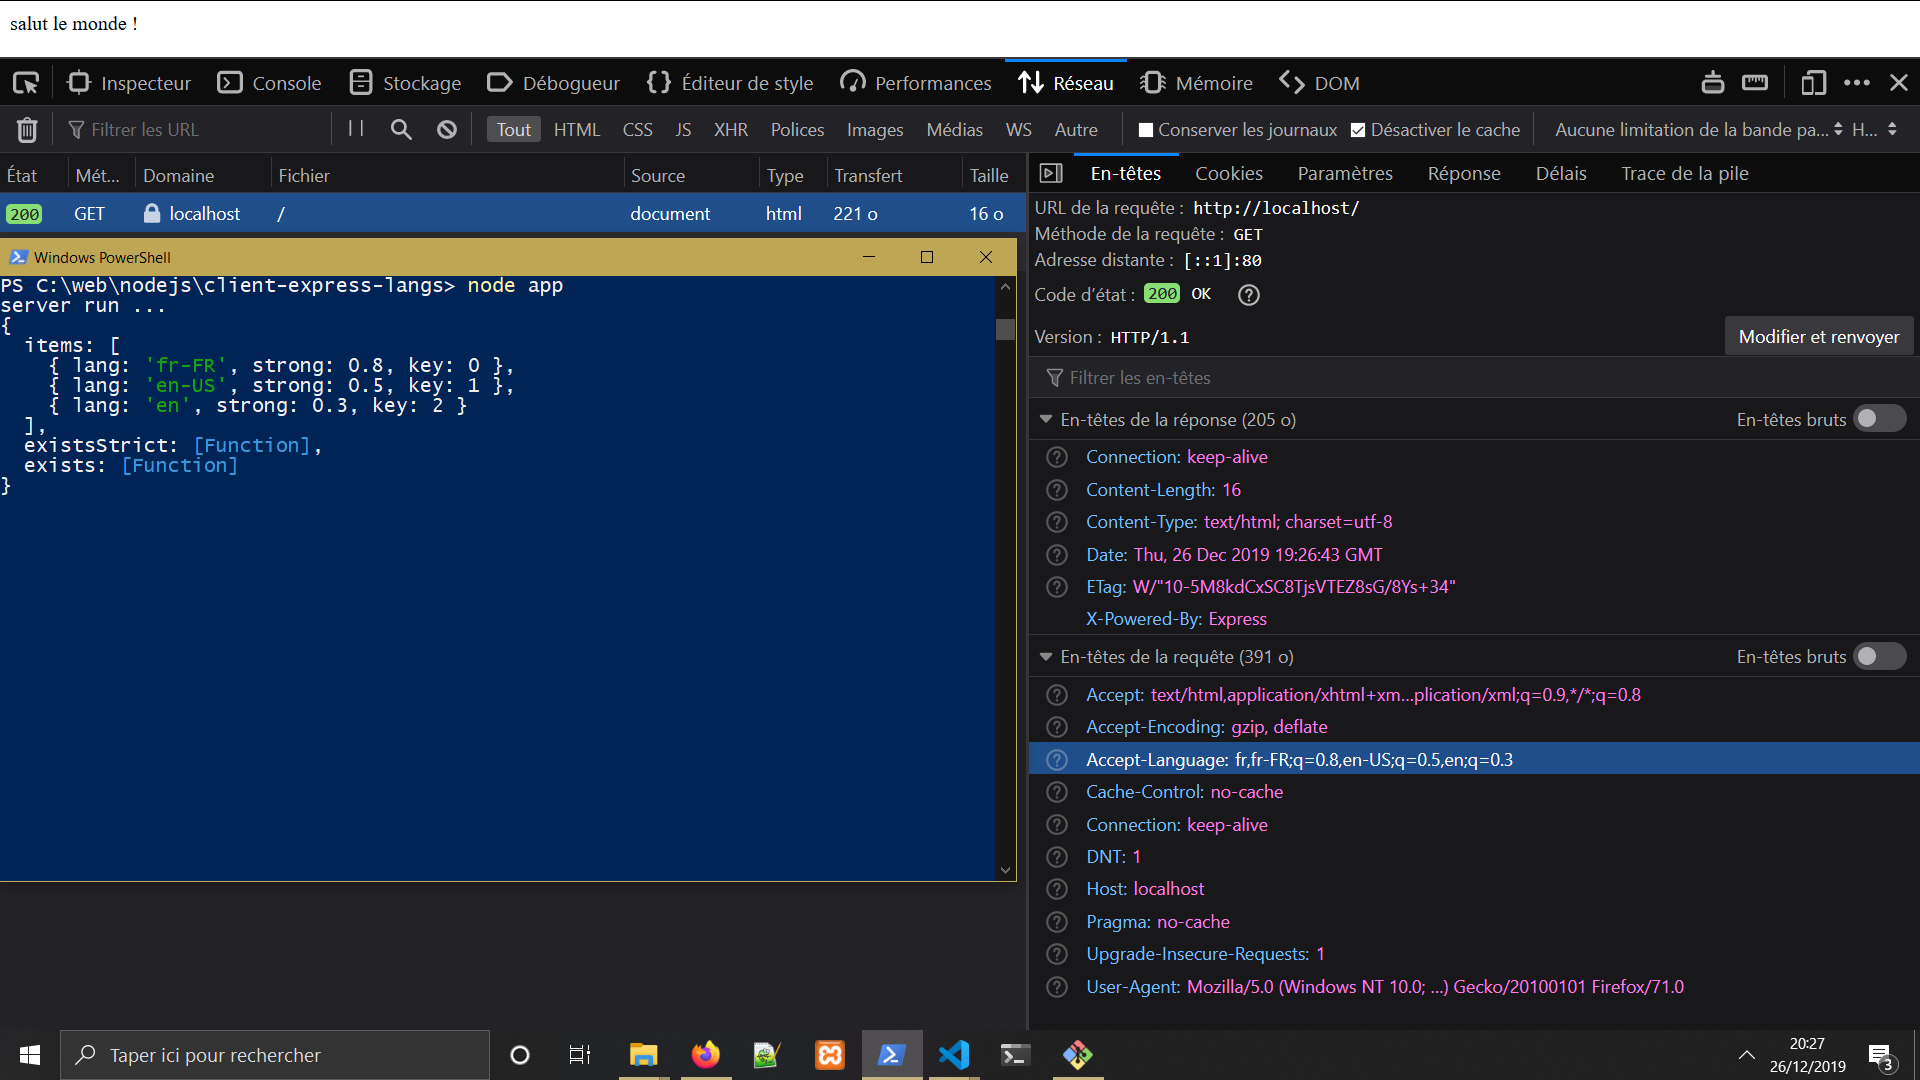
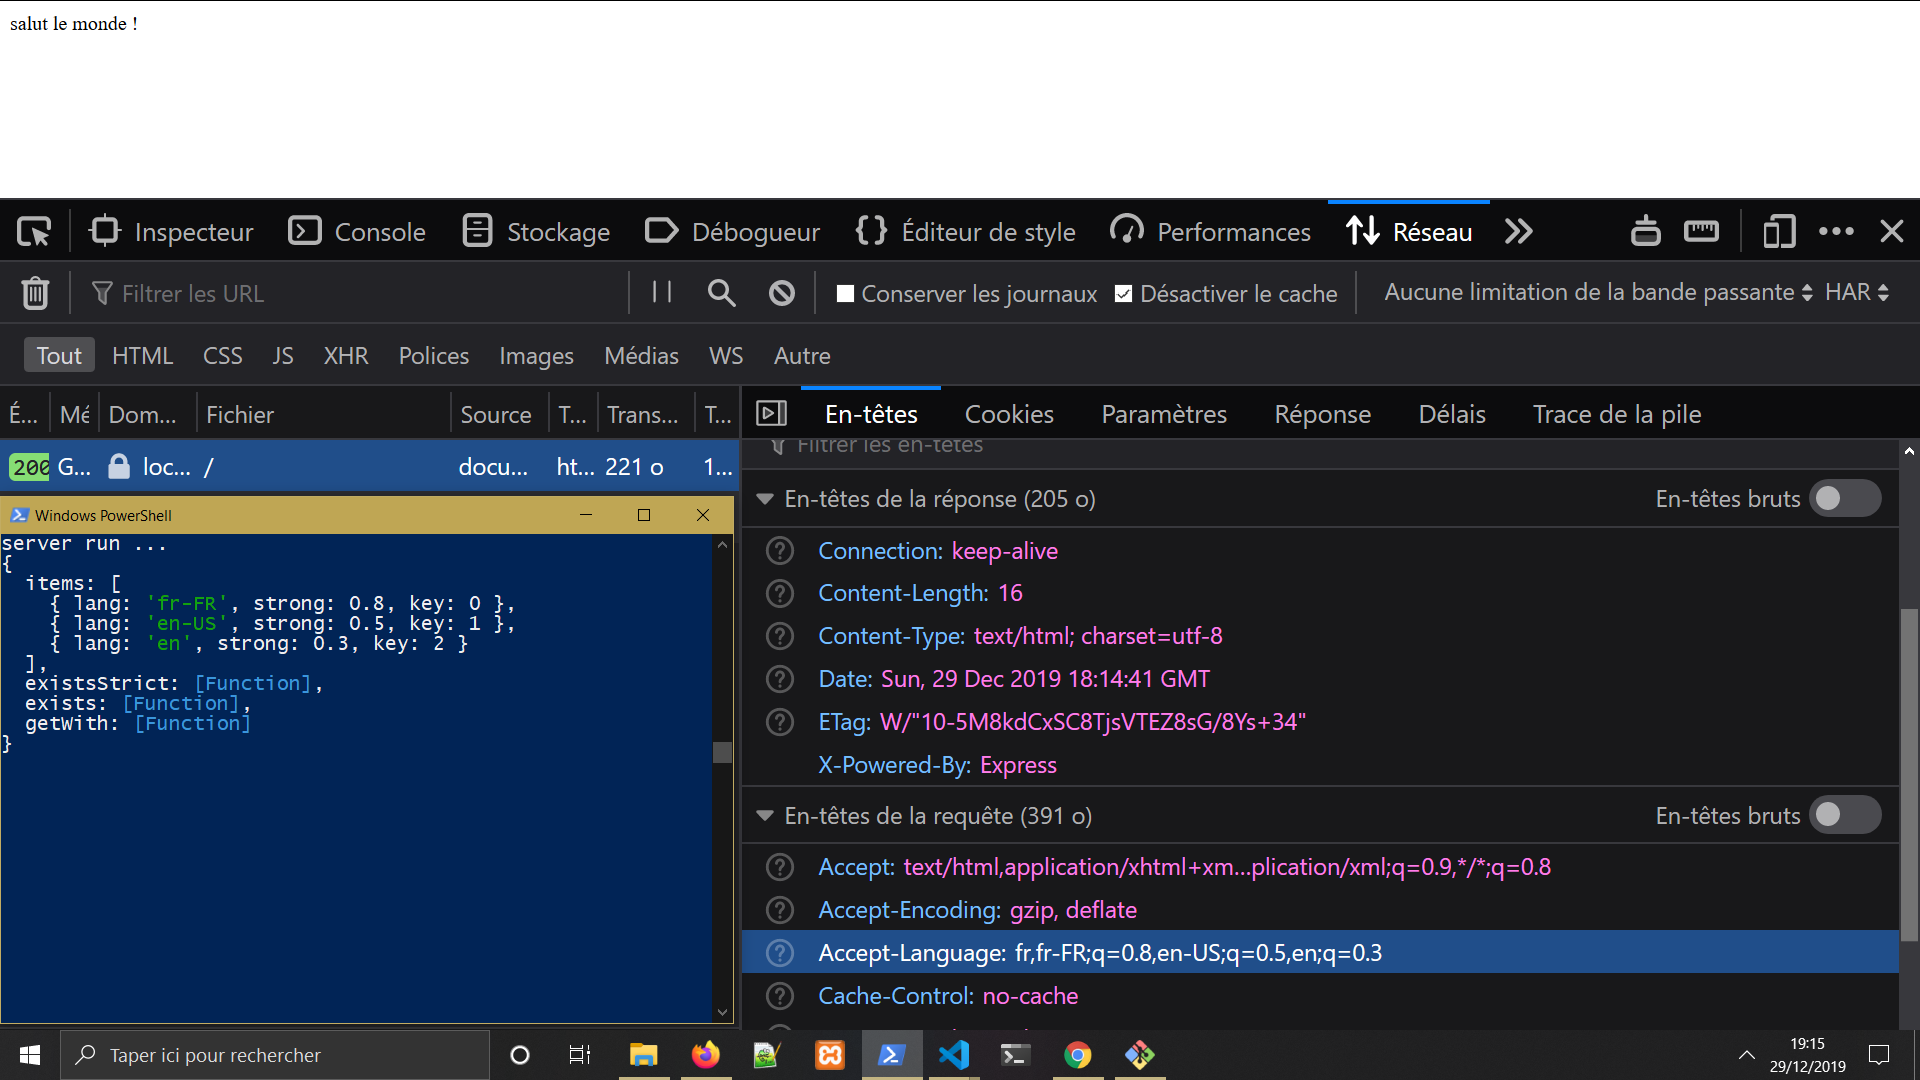
add  method feature , implement TEST-UNIT , upgrade README.md , upgrade minor version package.json

diff --git a/test/get-with-pattern.test.js b/test/get-with-pattern.test.js
@@ -1,0 +1,48 @@
+const
+    {expect,assert} = require('chai')
+    ,getWithTest = require('./../lib/get-with-pattern')
+;
+
+describe('test module `get-with-pattern`' , () => {
+
+    it('should be an function' , () => {
+
+        assert.isFunction( getWithTest ) ;
+
+    } ) ;
+
+    it('should \\throw TypeError' , () => {
+
+        const fxThrow = () => getWithTest() ;
+
+        expect( fxThrow ).to.have.throw( TypeError ) ;
+
+    } ) ;
+
+    it('should return array' , () => {
+
+        assert.isArray( getWithTest.call( {
+            items: [{ lang: 'test' } ,{ lang: 'fr' } , { lang: 'en' } , ]
+        } , /en|fr/ ) ) ;
+
+    } ) ;
+
+    it('should return an array of size 2' , () => {
+
+        expect( getWithTest.call( {
+            items: [{ lang: 'test' } ,{ lang: 'fr' } , { lang: 'en-US' } , ]
+        } , /en|fr/ ) ).to.have.lengthOf( 2 ) ;
+
+    } ) ;
+
+    it('should return an array of object' , () => {
+
+        const back = getWithTest.call( {
+            items: [{ lang: 'test' } ,{ lang: 'fr' } , { lang: 'en' } , ]
+        } , "en|fr" );
+
+        assert.isObject( back[0] ) ;
+
+    } ) ;
+
+} ) ;

diff --git a/test/check-exists-strict.test.js b/test/check-exists-strict.test.js
@@ -1,0 +1,46 @@
+const
+    {expect,assert} = require('chai')
+    ,checkExistsStrictTest = require('./../lib/check-exists-strict')
+;
+
+describe('test module `check-exists-strict`' , () => {
+
+    it('should be an function' , () => {
+
+        assert.isFunction( checkExistsStrictTest ) ;
+
+    } ) ;
+
+    it('should \\thow ReferenceError' , () => {
+
+        const fxThrow = () => checkExistsStrictTest() ;
+
+        expect( fxThrow ).to.throw() ;
+
+    } ) ;
+
+    it('should be return boolean' , () => {
+
+        assert.isBoolean( checkExistsStrictTest.call( {
+            items: [{lang:'test'},{lang:'test-2'},{lang:'test-3'}]
+        } )) ;
+
+    } ) ;
+
+    it('should be return false' , () => {
+
+        assert.isFalse( checkExistsStrictTest.call( {
+            items: [{lang:'test'},{lang:'test-2'},{lang:'test-3'}]
+        } )) ;
+
+    } ) ;
+
+    it('should be return true' , () => {
+
+        assert.isTrue( checkExistsStrictTest.call( {
+            items: [{lang:'en'},{lang:'test-2'},{lang:'test-3'}]
+        } )) ;
+
+    } ) ;
+
+} ) ;

diff --git a/test/check-exists.test.js b/test/check-exists.test.js
@@ -1,0 +1,48 @@
+const
+    {expect,assert} = require('chai')
+    ,checkExistsTest = require('./../lib/check-exists')
+;
+
+
+describe('test module `check-exists`' , () => {
+
+    it('should be an function' , () => {
+
+        assert.isFunction( checkExistsTest ) ;
+
+    } ) ;
+
+    it('should \\thow ReferenceError' , () => {
+
+        const fxThrow = () => checkExistsTest() ;
+
+        expect( fxThrow ).to.throw() ;
+
+    } ) ;
+
+    it('should be return boolean' , () => {
+
+        assert.isBoolean( checkExistsTest.call( {
+            items: [{lang:'test'},{lang:'test-2'},{lang:'test-3'}]
+        } )) ;
+
+    } ) ;
+
+    it('should be return false' , () => {
+
+        assert.isFalse( checkExistsTest.call( {
+            items: [{lang:'test'},{lang:'test-2'},{lang:'test-3'}]
+        } )) ;
+
+    } ) ;
+
+    it('should be return true' , () => {
+
+        assert.isTrue( checkExistsTest.call( {
+            items: [{lang:'en'},{lang:'test-2'},{lang:'test-3'}]
+        } )) ;
+
+    } ) ;
+
+
+} );

diff --git a/test/express-langs.test.js b/test/express-langs.test.js
@@ -58,20 +58,13 @@ describe('middleware' , () => {
 
         } ) ;
 
-        it('should be throw TypeError' , () => {
+        it('should be \\throw TypeError' , () => {
 
-            try {
-                expect( reqFactory.langs.exists( 42 ) ).to.throw( TypeError ) ;
-            } catch( TypeError ) {
-                console.log('have success throw TypeError');
-            }
+            const fxThrow = () => reqFactory.langs.exists( 42 ) ;
+            const fxThrow2 = () => reqFactory.langs.existsStrict( 42 ) ;
 
-            try {
-                expect( reqFactory.langs.existsStrict( 42 ) ).to.throw( TypeError ) ;
-            } catch( TypeError ) {
-                console.log('have success throw TypeError');
-            }
-
+            expect( fxThrow ).to.have.throw( TypeError ) ;
+            expect( fxThrow2 ).to.have.throw( TypeError ) ;
 
         } ) ;
 

diff --git a/lib/get-with-pattern.js b/lib/get-with-pattern.js
@@ -1,0 +1,25 @@
+/**
+ * @exports Function get **langs** item **match** with an **arg1** `pattern`
+ * @param {string|RegExp} pattern test on all langs *name*
+ * @throws \\TypeError then **arg1** pattern is not an valid format
+ * @test from `get-with-pattern.test.js`
+ * @return {array} array[ { <lang:string,strong:number,key:number> } ]
+ */
+module.exports = function( pattern ) {
+
+    if(
+        typeof pattern !== 'string' &&
+        !(pattern instanceof RegExp)
+    ) {
+        throw new TypeError('arg1 bust be an format') ;
+    }
+
+    if( typeof pattern === 'string' ) {
+        pattern = new RegExp( pattern ) ;
+    }
+
+    return this.items.filter( item => (
+        pattern.test( item.lang )
+    ) ) ;
+
+} ;

diff --git a/express-langs.js b/express-langs.js
@@ -2,7 +2,7 @@
  * @author S.Gaborieau
  *
  * @package [npm] <https://www.npmjs.com/package/express-langs>
- * @version 0.2.0 `stable version`
+ * @version 0.4.0 `pre-stable version`
  *
  * @git <https://github.com/Orivoir/express-langs/blob/master/README.md>
  * @npm <https://www.npmjs.com/package/express-langs>
@@ -24,6 +24,7 @@ function (req , skip , next) {
         items: require('./lib/parse')( langs )
         ,existsStrict: require('./lib/check-exists-strict')
         ,exists: require('./lib/check-exists')
+        ,getWith: require('./lib/get-with-pattern')
     } ;
 
     next() ;

diff --git a/lib/check-exists.js b/lib/check-exists.js
@@ -1,6 +1,6 @@
 /**
- * @export Function test lang or partial lang *e.g* `US` is contains inside langs
- * @param {string} lang val for test exists
+ * @export Function test lang or partial lang *e.g* `US` is contains inside langs found in `request`
+ * @param {string} lang val for test exists default `en`
  * @return {boolean}
  */
 module.exports = function( lang = 'en' ) {

diff --git a/lib/check-exists-strict.js b/lib/check-exists-strict.js
@@ -3,9 +3,7 @@
  * @param {string} lang val for test exists
  * @return {boolean}
  */
-module.exports =
-
-function( lang = 'en' ) {
+module.exports = function( lang = 'en' ) {
 
     if( typeof lang !== 'string' ) {
         // error arguments

diff --git a/README.md b/README.md
@@ -123,4 +123,14 @@ langs.existsStrict('en') ; // match with 'en'
 langs.existsStrict('en') ; // not match with 'fr'
 ```
 
+## `getWith` method get array langs match with you support `pattern`
+
+```javascript
+const supportLangs = langs.getWith( /en|fr|es/i ) ; // array[ langs ]
+
+// you can give an string for build an pattern e.g :
+const pattern = "en|fr|es" ;
+const supportLangs = langs.getWith( pattern ) ; // array[ langs ]
+```
+
 #### develop by [Samuel Gaborieau]( https://orivoir.github.io/profil-reactjs/ ) with <3 and NodeJS for *Open Source* and *enjoy* !
